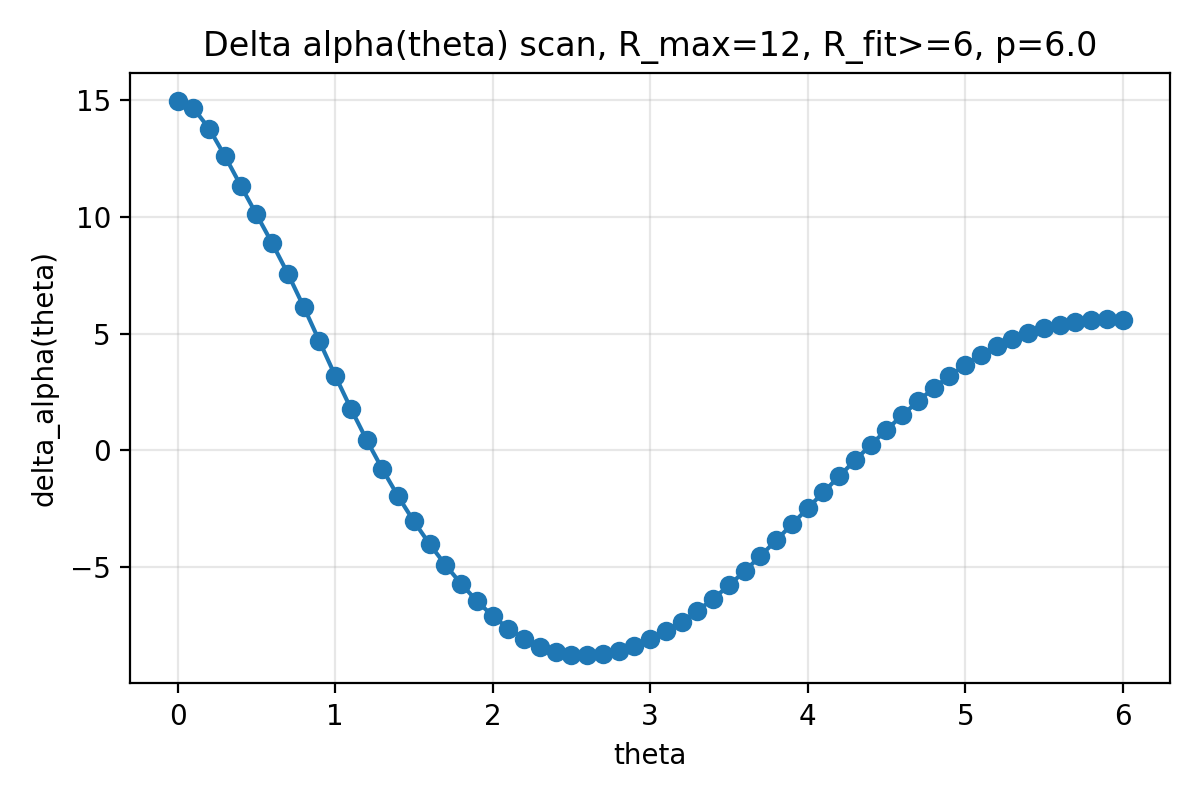
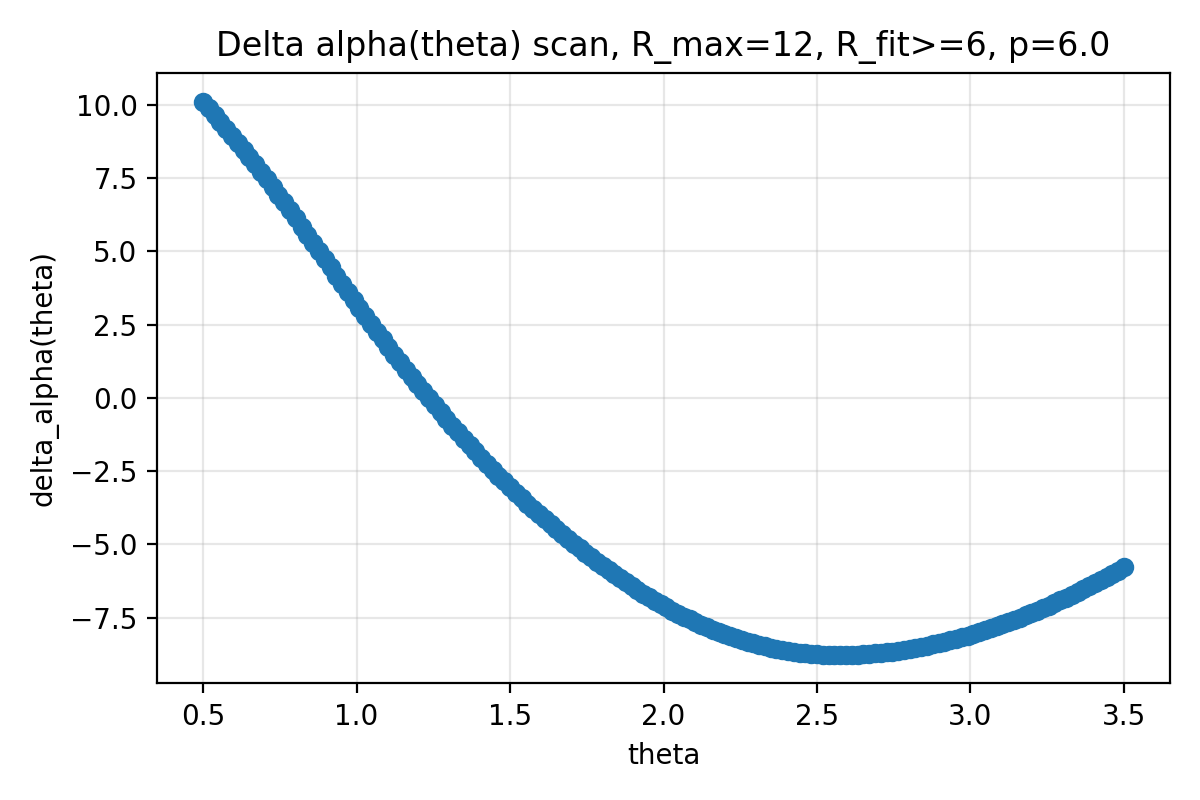
Act II: theta-star scan outputs + progress log

diff --git a/docs/paper/main.tex b/docs/paper/main.tex
@@ -28,6 +28,6 @@
 % (Later we can prepend Act I via \input{sections/act1_main} or similar.)
 
 %\bibliographystyle{unsrt}
-\bibliography{references}
+%\bibliography{references}
 
 \end{document}

diff --git a/docs/PROGRESS_LOG.md b/docs/PROGRESS_LOG.md
@@ -137,43 +137,21 @@ Figures saved to:
 
 
 
-## 2025-12-12 — Act II findings (θ⋆ stability zone)
+## 2025-12-12 — Act II: θ⋆ stability zone (lattice Δα(θ))
 
-### Core empirical observation
-- A pronounced stability/minimum appears in the θ landscape near:
-  θ⋆ ≈ 2.598 (close to φ² ≈ 2.618…).
-- Observed extremum depth (current run/figure): Δα(θ⋆) ≈ −8.77.
+**What we did**
+- Implemented and ran a 4D lattice-sum scan for Δα(θ) with asymptotic fit A + B/R.
+- Produced global + zoomed scans to identify a stable minimum θ⋆.
+- Generated Act II paper scaffolding under `docs/paper/sections/`.
 
-### Interpretation (current working model)
-- The θ⋆ zone behaves like a preferred holonomy / phase-lock point where the cancellation system becomes least able to fully cancel (i.e., a structurally stable remainder point).
-- Proximity to φ² is treated as a hypothesis until robustness tests (resolution/cutoff/metric) confirm it.
+**Key outputs**
+- CSV scans: `data/processed/lattice_theta/delta_alpha_*.csv`
+- Figures: `figures/lattice_theta/delta_alpha_*.png`
+- Paper scaffold: `docs/paper/main.tex` + `docs/paper/sections/act2_*.tex`
+- θ⋆ summary table: `docs/ACT2_theta_star_summary.csv` (argmin extracted from scans)
 
-### Not yet proven (must be stress-tested)
-- Invariance of θ⋆ under scan resolution, cutoff R / lattice size, boundary conditions, and alternative residual metrics.
-- Whether the depth (−8.77) is an invariant or scale/regularization artifact.
+**Main finding (qualitative)**
+- Δα(θ) shows a pronounced minimum near θ ≈ 2.59–2.60, stable across scan resolution and more convergent at higher R (e.g. R_max=24).
 
-### Immediate robustness checklist
-1) Resolution sweep: coarse→fine Nθ and confirm θ⋆ converges.
-2) Cutoff sweep: vary R (e.g., 12,18,24,30) and check θ⋆ drift.
-3) Metric sweep: L2 vs L∞ vs signed sum residual definitions.
-4) IC/bootstrap jitter: verify minimum is not numerical coincidence.
-
-
-## 2025-12-12 — Act II findings (θ⋆ stability zone)
-
-- Driver: src/lattice_theta/run_delta_alpha_theta_scan.py
-- Key outputs: figures/lattice_theta/delta_alpha_theta_global_R12_p6.png, ..._min_focus.png, ..._star_R24.png
-
-### Empirical observation
-- Strong minimum in Δα(θ) near θ⋆ ≈ 2.59–2.62 (hypothesis: close to φ² ≈ 2.618…).
-- Current featured run shows Δα(θ⋆) ≈ −8.77 (from R=24 figure).
-
-### Working interpretation
-- θ⋆ behaves like a preferred “least-cancellable remainder” point (stability pocket) in the cancellation system.
-
-### Next robustness tests (required)
-1) θ-resolution sweep (Nθ): confirm θ⋆ converges.
-2) Cutoff sweep (R): confirm θ⋆ is stable vs R and depth scaling.
-3) Metric sweep: L2 vs L∞ vs signed/absolute residual variants (if available).
-4) Reproducibility: rerun with same params -> identical minima + exported CSVs/PNGs.
-
+**Next**
+- Move from “finding θ⋆” to “using θ⋆”: propagate θ⋆ into scalar-vacuum mass-shift checks and cancellation-system scans, then test if θ⋆ is a genuine universality point or an artifact of fit/cutoff choice.
